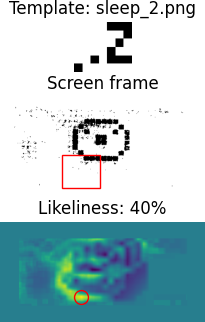
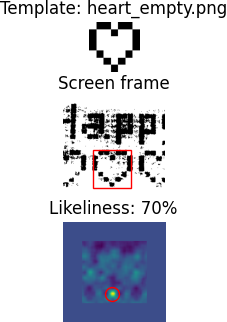
Trying to fix LCD camera ghosting

diff --git a/vision.py b/vision.py
@@ -46,7 +46,7 @@ class TamaVision(object):
 
     def findMissingHearts(self, imageFileName, patternFileName):
         missingHearts = 0
-        for i in range(3):
+        for i in range(4):
             if self.findPattern(imageFileName, patternFileName, onlyCheckThisQuarter = (4-i)): #work from right to left until we find no more hearts missing
                 missingHearts = missingHearts + 1
             else:
@@ -80,10 +80,10 @@ class TamaVision(object):
                 quarter = math.floor(width/4)
                 min = ((i-1)*quarter)
                 max = i*quarter
-                min -= 0.5 * quarter # compensate for not perfect quarters
+                min = int(min - 0.5 * quarter) # compensate for not perfect quarters
                 if min < 0:
                     min = 0
-                max += 0.5 * quarter
+                max = int(max + 0.5 * quarter)
                 if max > width:
                     max = width
                 image = image[:, min:max]
@@ -158,11 +158,12 @@ class TamaVision(object):
             else:
                 thres = positiveThresholds[0]
 
-            #logger.log(logging.INFO,('\nChecking pattern: ' + patName))
-            #logger.log(logging.INFO,'Likeliness template match: ' + "{:.2f}".format(likeliness))
+            #logger.log(logging.WARNING,('\nChecking pattern: ' + patName))
+            #logger.log(logging.WARNING,'Likeliness template match: ' + "{:.2f}".format(likeliness))
 
             if likeliness > thres:
-                logger.log(logging.INFO,(patName + ' found with ' + str(int(likeliness*100)) + '% likeliness'))
+                if patName not in ['heart_empty.png']:
+                    logger.log(logging.WARNING,(patName + ' found with ' + str(int(likeliness*100)) + '% likeliness'))
                 if self.showResult:
                     plt.pause(10)
                     plt.close()

diff --git a/main.py b/main.py
@@ -17,8 +17,7 @@ os.environ.__setitem__('DISPLAY', ':0.0')
 now = datetime.now()
 date_time = now.strftime("%Y-%m-%d %H:%M")
 #filename=('logs/' + str(date_time) + '.log')
-#set logging to logging.INFO to get only main updates
-logging.basicConfig(level=logging.INFO, format='%(message)s',
+logging.basicConfig(level=logging.WARNING, format='%(message)s',
                     datefmt='%H:%M',
                     handlers=[logging.FileHandler('logs/' + str(date_time) + '.log'), logging.StreamHandler()])
 logger = logging.getLogger('Tamagotchi')
@@ -37,8 +36,6 @@ tamaCam = camera.TamaCam()
 tamaVision = vision.TamaVision(0.40, 0.02, False, lock)
 tamaLight = light.TamaLight(14)
 tamaController = controller.TamaController(tamaCam, tamaVision, tamaButtons, tamaLight, 240, lock) # care interval 240s
-
-
 
 logger.log(logging.CRITICAL, 'Robotic Tamagotchi Caretaker started!')
 def threadedMainLogic():

diff --git a/camera.py b/camera.py
@@ -20,10 +20,12 @@ class TamaCam():
     def setup(self):
         self.camera.zoom = (0.36, 0.16, 0.3, 0.3)
         self.camera.resolution = 'vga'
-        self.camera.framerate = 2
-        self.camera.shutter_speed = 212339
+        #self.camera.framerate = 2
+        self.camera.framerate = 10
+        #self.camera.shutter_speed = 212339
+        self.camera.shutter_speed = 100000
         self.camera.saturation = -100
-        self.camera.brightness = 80
+        self.camera.brightness = 90
         self.camera.contrast = 100
         self.camera.sharpness = 100
         self.camera.video_denoise = 'False'

diff --git a/controller.py b/controller.py
@@ -72,6 +72,8 @@ class TamaController(object):
     for fn in fileNames:
       self.getFrame(fn)
       self.tamaButtons.pressL()
+    self.tamaButtons.pressR()
+    self.tamaButtons.pressR()
 
   def checkNeedsDiscipline(self):
     needsDiscipline = False

diff --git a/testCamera.py b/testCamera.py
@@ -1,0 +1,3 @@
+import camera
+
+cam = camera.TamaCam()
